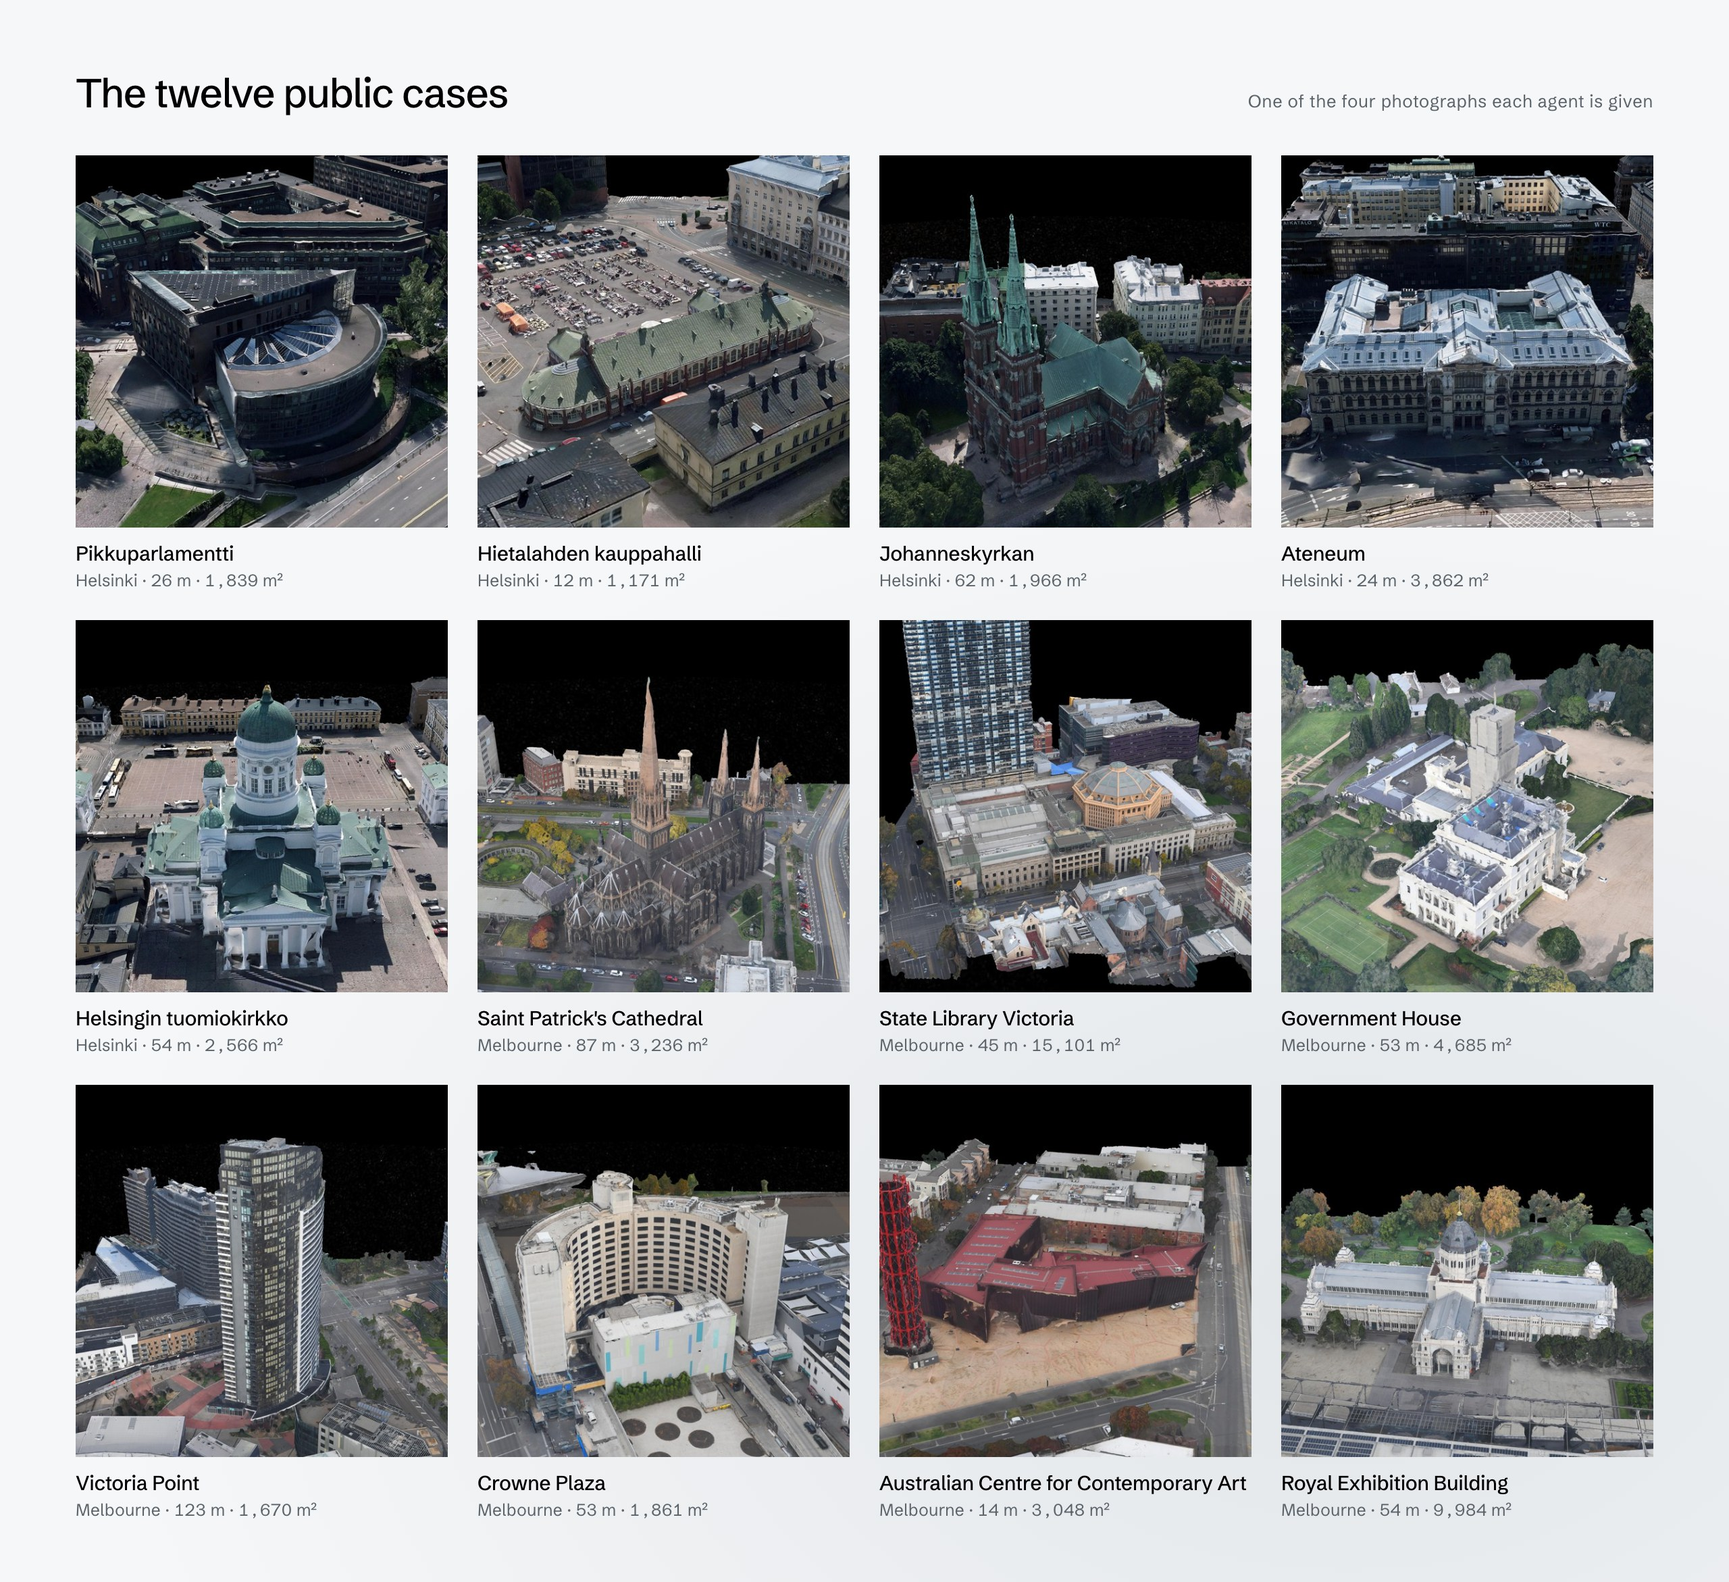
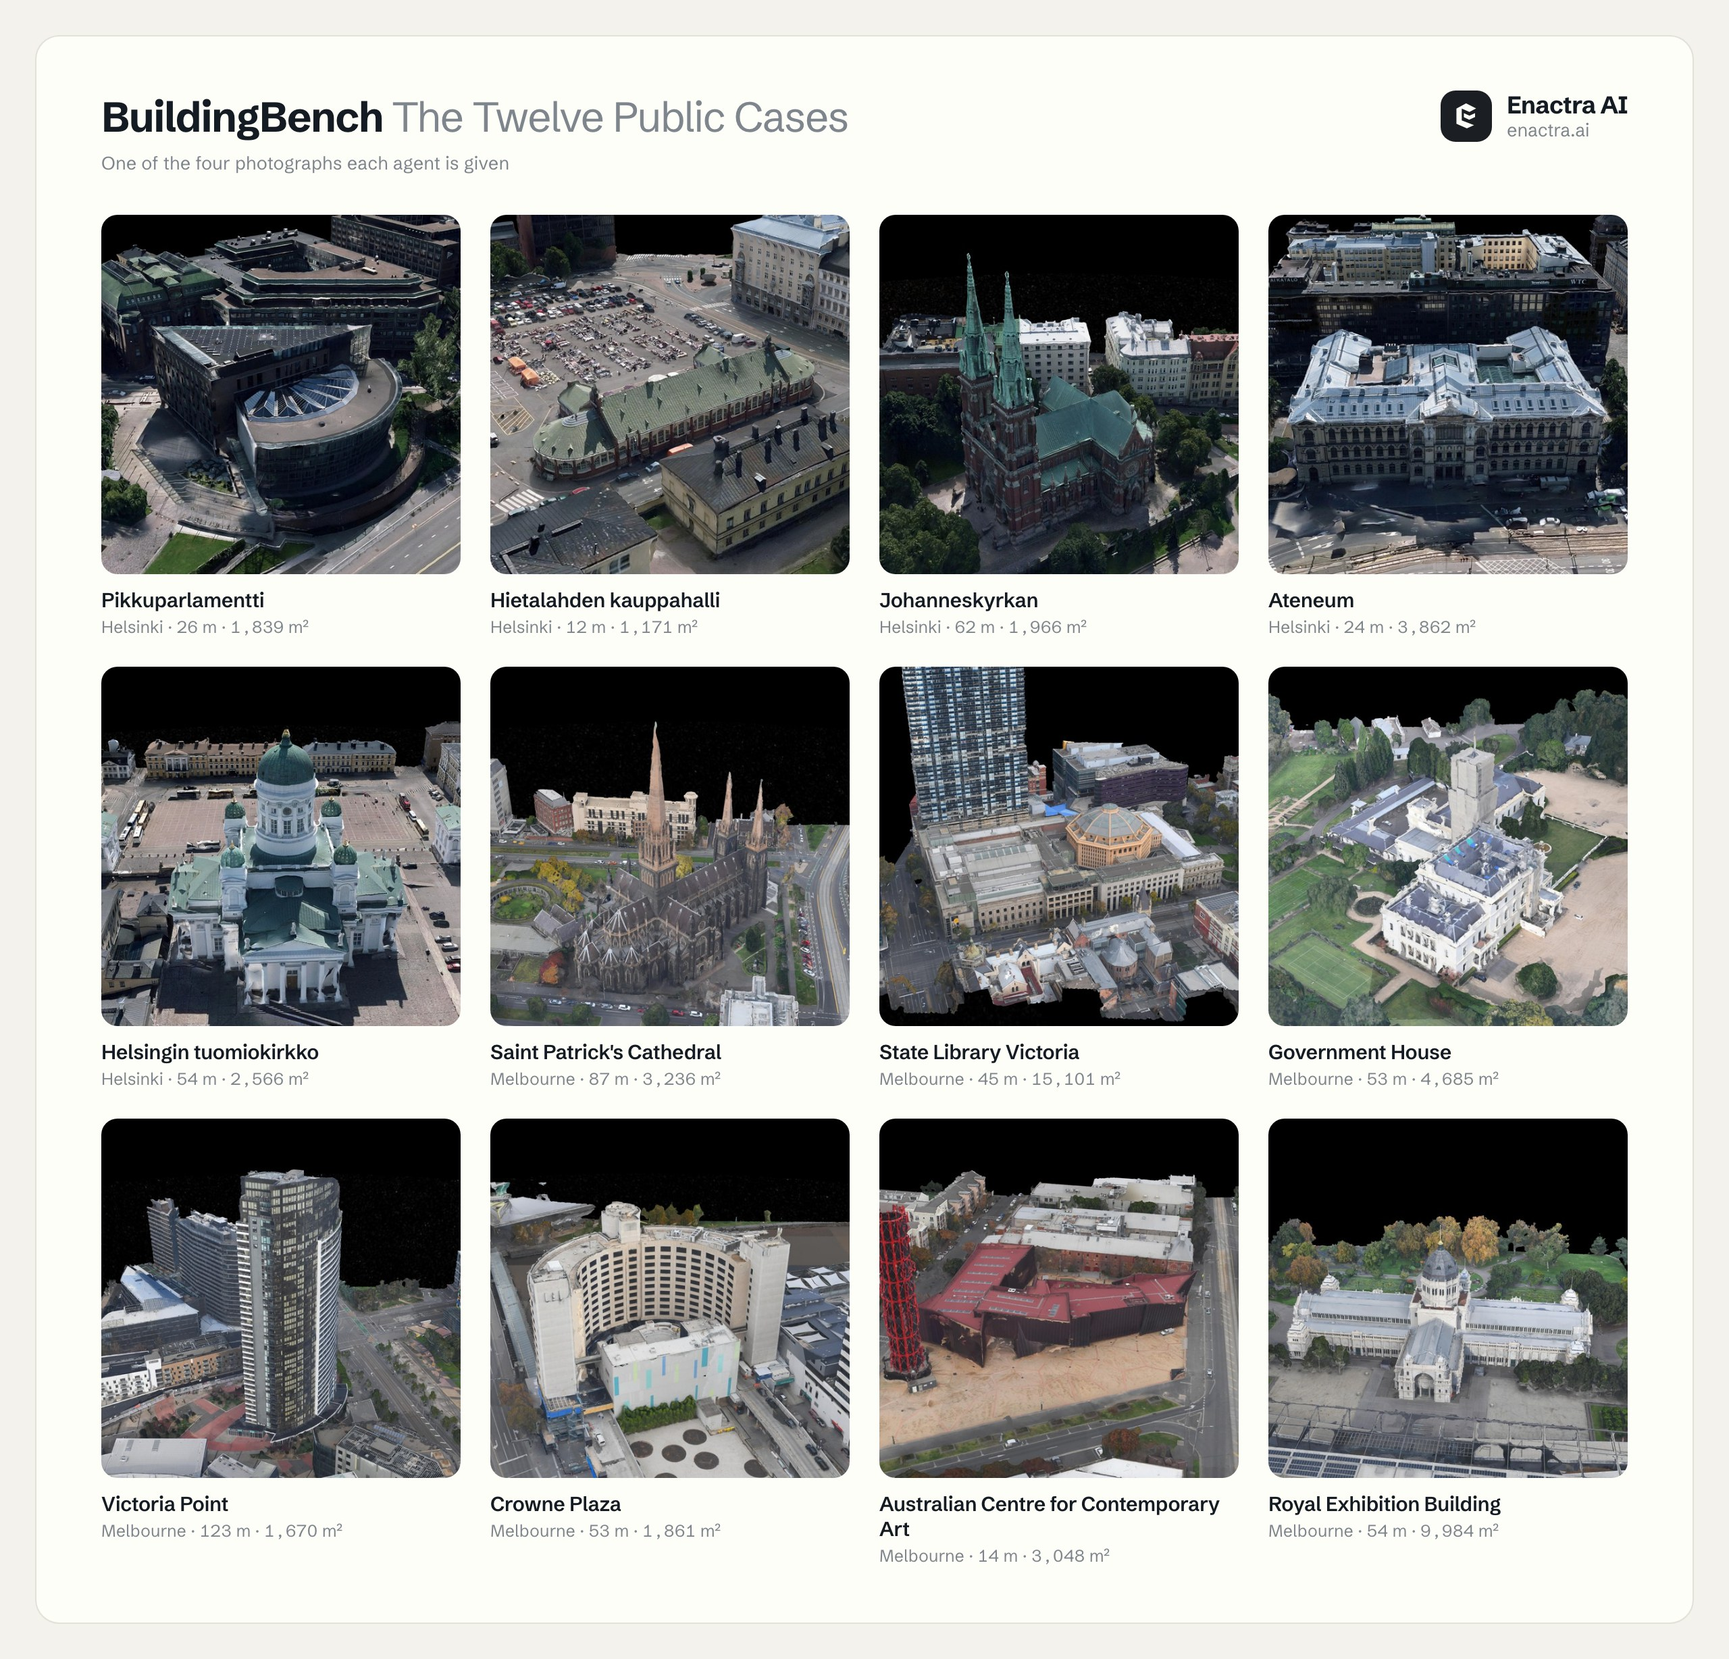
Show the frontier as the film draws it, and dress the figures to match
The price plot in the README is now the Pareto animation: the dots arrive
in order of when each model was released, so the reader watches the frontier
be pushed rather than reading it off a still. GitHub does not play an .mp4
that a README points at -- it renders it as a link -- so the film is filed as
a GIF, 1000px at 12 frames a second, with the finished chart held for three
seconds before it loops.

The three drawn figures follow the film's house style: a cream page, one
rounded card, the Enactra AI lock-up in the corner, and the heading split
between the name in ink and what the figure shows in grey. Each model family
carries its maker's colour in the plot, in its name on the board, and in its
score bar. docs/figures.py still draws the still price plot from the same
board, so nothing here is hand-made.

diff --git a/docs/figures.py b/docs/figures.py
@@ -37,15 +37,31 @@ CHROME = ("/Applications/Google Chrome.app/Contents/MacOS/Google Chrome",
           "/usr/bin/google-chrome", "/usr/bin/chromium",
           "/usr/bin/chromium-browser")
 
-# The house style, lifted from enactra.ai.
+# The house style, lifted from enactra.ai -- the same one the Pareto film uses.
 THEMES = {
-    "light": dict(paper="#f6f7f8", wash="#e2e6e9", ink="#000000",
-                  ink2="#5b636b", line="#c9cfd4", signal="#f2c230",
-                  track="#dfe3e7"),
-    "dark": dict(paper="#17191c", wash="#0d0f11", ink="#ffffff",
-                 ink2="#9aa2aa", line="#363c42", signal="#f2c230",
-                 track="#282d32"),
+    "light": dict(paper="#f4f2ec", card="#fefef9", ink="#141b22", ink2="#7e858c",
+                  line="#e3e0d6", rule="#eceade", signal="#f2c230",
+                  track="#eceade", chip="#1b1f23", chipink="#fefef9"),
+    "dark": dict(paper="#131518", card="#1b1e22", ink="#f4f2ec", ink2="#8f979f",
+                 line="#2b3035", rule="#23272c", signal="#f2c230",
+                 track="#272c31", chip="#f4f2ec", chipink="#131518"),
 }
+# One colour per model family, as in the film: the dot, the bar and the name
+# of a row all carry its maker's colour.
+MAKERS = (("Inkling", "#0f7a74"), ("Claude", "#c15f3c"), ("GPT", "#0d8a63"),
+          ("DeepSeek", "#4451de"),
+          ("Grok", "#9c1111"), ("Gemini", "#7818a0"), ("Kimi", "#8a6a00"),
+          ("GLM", "#b07d10"), ("Muse", "#2f86d6"))
+
+
+def maker(label: str) -> str:
+    """The colour of whoever makes this model."""
+    for name, colour in MAKERS:
+        if name.lower() in label.lower():
+            return colour
+    return "var(--ink)"
+
+
 MARK = ('<svg viewBox="55 40 280 320" class="mark">'
         '<path fill="currentColor" d="M193 55 L84 115 L84 286 L202 337 L283 301'
         ' L144 248 L144 115 L231 152 L306 113 Z"/>'
@@ -87,18 +103,37 @@ def shoot(html: str, name: str, width: int, theme: str, jpeg: bool = False,
     page = f"""<!doctype html><meta charset="utf-8"><style>
 @font-face {{ font-family: SG; font-weight: 100 900; font-style: normal;
   src: url(data:font/woff2;base64,{font()}) format('woff2'); }}
-:root {{ --paper:{colours['paper']}; --wash:{colours['wash']}; --ink:{colours['ink']};
-  --ink-2:{colours['ink2']}; --line:{colours['line']}; --signal:{colours['signal']};
-  --track:{colours['track']}; }}
+:root {{ --paper:{colours['paper']}; --card:{colours['card']}; --ink:{colours['ink']};
+  --ink-2:{colours['ink2']}; --line:{colours['line']}; --rule:{colours['rule']};
+  --signal:{colours['signal']}; --track:{colours['track']};
+  --chip:{colours['chip']}; --chip-ink:{colours['chipink']}; }}
 * {{ box-sizing: border-box; }}
 html, body {{ margin: 0; background: transparent; }}
 body {{ font-family: SG, "Helvetica Neue", Arial, sans-serif; color: var(--ink);
   -webkit-font-smoothing: antialiased; }}
 .num {{ font-variant-numeric: tabular-nums; }}
-.panel {{ width: {width}px; background: var(--paper);
-  background-image: radial-gradient(120% 90% at 78% 82%, var(--wash) 0%, var(--paper) 62%); }}
+.panel {{ width: {width}px; padding: 26px; background: var(--paper); }}
+.card {{ background: var(--card); border: 1px solid var(--line); border-radius: 18px;
+  overflow: hidden; }}
 .mark {{ display: block; }}
-</style><div class="panel">{html}</div>"""
+/* the brand lock-up that sits in the corner of every figure */
+.lockup {{ display: flex; align-items: center; gap: 11px; }}
+.lockup .chip {{ width: 38px; height: 38px; border-radius: 11px; background: var(--chip);
+  color: var(--chip-ink); display: flex; align-items: center; justify-content: center; }}
+.lockup .chip .mark {{ width: 21px; height: 21px; }}
+.lockup b {{ display: block; font-size: 18px; font-weight: 700; letter-spacing: -0.02em;
+  line-height: 1.15; }}
+.lockup span {{ display: block; font-size: 13.5px; color: var(--ink-2);
+  letter-spacing: -0.005em; }}
+/* the two-tone heading: the name in ink, what the figure shows beside it */
+.cap {{ display: flex; align-items: flex-start; justify-content: space-between; gap: 24px; }}
+.cap h2 {{ margin: 0; font-size: 31px; font-weight: 400; color: var(--ink-2);
+  letter-spacing: -0.028em; }}
+.cap h2 b {{ font-weight: 700; color: var(--ink); }}
+.cap h2 small {{ display: block; margin-top: 7px; font-size: 13.5px; font-weight: 400;
+  color: var(--ink-2); letter-spacing: 0.005em; }}
+.note {{ margin: 26px 0 0; font-size: 13px; line-height: 1.6; color: var(--ink-2); }}
+</style><div class="panel"><div class="card">{html}</div></div>"""
 
     with tempfile.TemporaryDirectory() as tmp:
         work = Path(tmp)
@@ -135,54 +170,60 @@ body {{ font-family: SG, "Helvetica Neue", Arial, sans-serif; color: var(--ink);
 
 # ------------------------------------------------------------------ figures
 
+LOCKUP = (f'<div class="lockup"><div class="chip">{MARK}</div>'
+          f'<div><b>Enactra AI</b><span>enactra.ai</span></div></div>')
+
+
 HEADER_CSS = """
-.head { padding: 78px 64px 84px; text-align: center; }
-.brand { display: inline-flex; align-items: center; gap: 10px;
-  font-weight: 600; font-size: 17px; letter-spacing: -0.01em; }
-.brand .mark { width: 24px; height: 24px; }
-.head h1 { margin: 30px 0 0; font-size: 86px; font-weight: 500;
-  line-height: 1.0; letter-spacing: -0.032em; }
-.head p { margin: 24px auto 0; max-width: 820px; font-size: 22px;
-  line-height: 1.4; color: var(--ink-2); letter-spacing: -0.014em; }
+.head { padding: 46px 52px 52px; }
+.head h1 { margin: 40px 0 0; font-size: 82px; font-weight: 400; color: var(--ink-2);
+  line-height: 1.02; letter-spacing: -0.034em; }
+.head h1 b { font-weight: 700; color: var(--ink); }
+.head p { margin: 22px 0 0; max-width: 780px; font-size: 21px; line-height: 1.42;
+  color: var(--ink-2); letter-spacing: -0.014em; }
+.head .tags { margin-top: 30px; display: flex; gap: 10px; flex-wrap: wrap; }
+.head .tag { font-size: 13.5px; font-weight: 500; letter-spacing: -0.008em;
+  padding: 7px 13px; border: 1px solid var(--line); border-radius: 999px;
+  background: var(--paper); }
 """
 
 
 def header(theme: str) -> None:
+    tags = ("12 public buildings", "16 models", "201 reference runs",
+            "CC BY 4.0 data")
+    chips = "".join(f'<span class="tag">{t}</span>' for t in tags)
     body = f"""<style>{HEADER_CSS}</style><div class="head">
-  <div class="brand">{MARK}<span>Enactra AI</span></div>
-  <h1>Building&nbsp;Bench</h1>
-  <p>Reconstruct real buildings as 3D models from aerial imagery,
+  <div class="cap"><div></div>{LOCKUP}</div>
+  <h1><b>BuildingBench</b><br>One building,<br>four photographs.</h1>
+  <p>Reconstruct real buildings as textured 3D models from aerial imagery,
      using coding agents.</p>
+  <div class="tags">{chips}</div>
 </div>"""
     shoot(body, "header", 1280, theme)
 
 
 BOARD_CSS = """
-.board { padding: 52px 56px 46px; }
-.cap { display: flex; align-items: baseline; justify-content: space-between; gap: 24px; }
-.cap h2 { margin: 0; font-size: 30px; font-weight: 500; letter-spacing: -0.028em; }
-.cap span { font-size: 13px; color: var(--ink-2); letter-spacing: 0.02em; }
+.board { padding: 40px 48px 42px; }
 table { width: 100%; border-collapse: collapse; margin-top: 30px; }
-th { font-size: 10.5px; font-weight: 500; color: var(--ink-2); text-align: right;
+th { font-size: 10.5px; font-weight: 600; color: var(--ink-2); text-align: right;
   letter-spacing: 0.08em; text-transform: uppercase; padding: 0 0 11px 30px;
   border-bottom: 1px solid var(--line); white-space: nowrap; }
 th.l, td.l { text-align: left; }
 td { font-size: 16px; padding: 11px 0 11px 30px; text-align: right; white-space: nowrap;
-  border-bottom: 1px solid color-mix(in srgb, var(--line) 48%, transparent); }
+  border-bottom: 1px solid var(--rule); }
 tr:last-child td { border-bottom: 0; }
 td.rank, th.rank { padding-left: 0; color: var(--ink-2); font-size: 13px; }
 td.name, th.name { width: 100%; padding-left: 16px; }
-td.name { font-weight: 500; letter-spacing: -0.012em; }
+td.name { font-weight: 600; letter-spacing: -0.012em; }
 td.sub, th.sub { color: var(--ink-2); }
 td.sub { font-size: 15px; }
 th.se, td.se { padding-left: 12px; }
 .bar { display: flex; align-items: center; gap: 12px; justify-content: flex-end; }
-.track { width: 152px; height: 7px; background: var(--track); position: relative; }
-.fill { position: absolute; inset: 0 auto 0 0; background: var(--ink); }
-.lead .fill { background: var(--signal); }
-.score { width: 50px; font-weight: 500; letter-spacing: -0.015em; text-align: right; }
+.track { width: 152px; height: 8px; border-radius: 999px; background: var(--track);
+  position: relative; overflow: hidden; }
+.fill { position: absolute; inset: 0 auto 0 0; border-radius: 999px; }
+.score { width: 50px; font-weight: 600; letter-spacing: -0.015em; text-align: right; }
 td.se { font-size: 13px; color: var(--ink-2); }
-.note { margin-top: 26px; font-size: 13px; line-height: 1.6; color: var(--ink-2); }
 """
 
 
@@ -198,13 +239,15 @@ def leaderboard(theme: str) -> None:
     rows = []
     for line in lines:
         lead = " lead" if line["place"] == 1 else ""
+        tone = maker(line["label"])
         bar = (f'<div class="bar"><div class="track"><div class="fill" '
-               f'style="width:{line["overall"] * 100:.1f}%"></div></div>'
+               f'style="width:{line["overall"] * 100:.1f}%;background:{tone}">'
+               f'</div></div>'
                f'<div class="score num">{line["overall"]:.3f}</div></div>')
         rows.append(
             f'<tr class="{lead.strip()}">'
             f'<td class="rank num">{line["place"]}</td>'
-            f'<td class="l name">{line["label"]}</td>'
+            f'<td class="l name" style="color:{tone}">{line["label"]}</td>'
             f'<td class="wide">{bar}</td>'
             f'<td class="se num">± {board._f(line["se"])[1:]}</td>'
             f'<td class="sub num">{board._f(line["surface_f"])}</td>'
@@ -214,8 +257,9 @@ def leaderboard(theme: str) -> None:
             f'<td class="sub num">{board._f(line["minutes"], 0)}</td></tr>')
 
     body = f"""<style>{BOARD_CSS}</style><div class="board">
-  <div class="cap"><h2>Reference leaderboard</h2>
-    <span>Twelve public buildings &middot; blind tier &middot; one run per model per building</span></div>
+  <div class="cap"><h2><b>BuildingBench</b> Reference Leaderboard
+      <small>Twelve public buildings &middot; blind tier &middot; one run per model per building</small>
+    </h2>{LOCKUP}</div>
   <table><thead><tr>{columns}</tr></thead><tbody>{''.join(rows)}</tbody></table>
   <p class="note">Overall is on 0&ndash;1, averaged over the twelve buildings; &plusmn; is the
     standard error across them. $ / run and min / run are medians.</p>
@@ -224,13 +268,11 @@ def leaderboard(theme: str) -> None:
 
 
 CASES_CSS = """
-.cases { padding: 50px 56px 46px; }
-.cap { display: flex; align-items: baseline; justify-content: space-between; gap: 24px; }
-.cap h2 { margin: 0; font-size: 30px; font-weight: 500; letter-spacing: -0.028em; }
-.cap span { font-size: 13px; color: var(--ink-2); letter-spacing: 0.02em; }
-.grid { margin-top: 28px; display: grid; grid-template-columns: repeat(4, 1fr); gap: 22px; }
-.tile img { display: block; width: 100%; aspect-ratio: 1; object-fit: cover; }
-.tile b { display: block; margin-top: 10px; font-size: 15px; font-weight: 500;
+.cases { padding: 40px 48px 42px; }
+.grid { margin-top: 30px; display: grid; grid-template-columns: repeat(4, 1fr); gap: 22px; }
+.tile img { display: block; width: 100%; aspect-ratio: 1; object-fit: cover;
+  border-radius: 12px; }
+.tile b { display: block; margin-top: 10px; font-size: 15px; font-weight: 600;
   letter-spacing: -0.012em; }
 .tile span { display: block; margin-top: 3px; font-size: 12.5px; color: var(--ink-2); }
 """
@@ -270,8 +312,8 @@ def gallery(theme: str) -> None:
                 f'<span class="num">{case["city"]} &middot; {case["height_m"]:.0f} m '
                 f'&middot; {case["footprint_area_m2"]:,.0f} m²</span></div>')
         body = f"""<style>{CASES_CSS}</style><div class="cases">
-  <div class="cap"><h2>The twelve public cases</h2>
-    <span>One of the four photographs each agent is given</span></div>
+  <div class="cap"><h2><b>BuildingBench</b> The Twelve Public Cases
+      <small>One of the four photographs each agent is given</small></h2>{LOCKUP}</div>
   <div class="grid">{''.join(tiles)}</div>
 </div>"""
         shoot(body, "cases", 1280, theme, jpeg=True, assets=pics)
@@ -279,10 +321,7 @@ def gallery(theme: str) -> None:
 
 
 PRICE_CSS = """
-.price { padding: 50px 56px 40px; }
-.cap { display: flex; align-items: baseline; justify-content: space-between; gap: 24px; }
-.cap h2 { margin: 0; font-size: 30px; font-weight: 500; letter-spacing: -0.028em; }
-.cap span { font-size: 13px; color: var(--ink-2); letter-spacing: 0.02em; }
+.price { padding: 40px 48px 38px; }
 .chart { margin-top: 26px; display: block; width: 100%; }
 .chart text { font-family: SG, sans-serif; }
 .chart .grid { stroke: var(--line); stroke-width: 1; }
@@ -293,13 +332,13 @@ PRICE_CSS = """
 .chart .err { stroke: var(--ink-2); stroke-width: 1.2; opacity: 0.55; }
 .chart .front { fill: none; stroke: var(--ink); stroke-width: 1.6;
   stroke-linejoin: round; opacity: 0.5; }
-.chart .halo { fill: none; stroke: var(--paper); stroke-width: 6; stroke-linejoin: round; }
-.chart .dot { fill: var(--ink); stroke: var(--paper); stroke-width: 2.5; }
-.chart .dot.on { fill: var(--signal); stroke: var(--ink); stroke-width: 1.6; }
-.chart .name { font-size: 12.5px; fill: var(--ink-2); letter-spacing: -0.008em;
-  paint-order: stroke fill; stroke: var(--paper); stroke-width: 3.5px;
+.chart .halo { fill: none; stroke: var(--card); stroke-width: 6; stroke-linejoin: round; }
+.chart .dot { stroke: var(--card); stroke-width: 2.5; }
+.chart .dot.on { stroke: var(--ink); stroke-width: 1.6; }
+.chart .name { font-size: 12.5px; letter-spacing: -0.008em;
+  paint-order: stroke fill; stroke: var(--card); stroke-width: 3.5px;
   stroke-linejoin: round; }
-.chart .name.on { fill: var(--ink); font-weight: 500; }
+.chart .name.on { font-size: 13.5px; font-weight: 700; }
 .note { margin-top: 22px; font-size: 13px; line-height: 1.6; color: var(--ink-2); }
 """
 
@@ -414,17 +453,20 @@ def price(theme: str) -> None:
     for point in points:
         on = " on" if id(point) in best else ""
         art.append(f'<circle class="dot{on}" cx="{point["x"]:.1f}" '
-                   f'cy="{point["y"]:.1f}" r="5.5"/>')
+                   f'cy="{point["y"]:.1f}" r="{6.5 if on else 5.0}" '
+                   f'fill="{maker(point["text"])}"/>')
 
     place(points, (left + 4, y0, W - right - 4, y1))
     for point in points:
         on = " on" if id(point) in best else ""
         art.append(f'<text class="name{on}" x="{point["lx"]:.1f}" y="{point["ly"]:.1f}" '
-                   f'text-anchor="{point["anchor"]}">{point["text"]}</text>')
+                   f'text-anchor="{point["anchor"]}" fill="{maker(point["text"])}" '
+                   f'opacity="{1 if on else 0.78}">{point["text"]}</text>')
 
     body = f"""<style>{PRICE_CSS}</style><div class="price">
-  <div class="cap"><h2>Score against price</h2>
-    <span>Twelve public buildings &middot; blind tier &middot; one run per model per building</span></div>
+  <div class="cap"><h2><b>BuildingBench</b> Pareto Frontier
+      <small>Twelve public buildings &middot; blind tier &middot; one run per model per building</small>
+    </h2>{LOCKUP}</div>
   <svg class="chart" viewBox="0 0 {W:.0f} {H:.0f}" role="img"
        aria-label="overall score against the cost of one run, on a logarithmic price axis">
     {''.join(art)}

diff --git a/README.md b/README.md
@@ -45,10 +45,7 @@ Sixteen models, one run per model per building, on the twelve public cases at
 the **blind** tier — the agent is told neither the footprint nor the height.
 
 <p align="center">
-  <picture>
-    <source media="(prefers-color-scheme: dark)" srcset="docs/assets/price-dark.png">
-    <img alt="Overall score against the median cost of one run, on a logarithmic price axis. The frontier runs from a free model up through GLM 5.3 Flash, GPT-5.6 Luna and DeepSeek V4.1 Flash to GPT-6 Astra." src="docs/assets/price-light.png">
-  </picture>
+  <img alt="Overall score against the median cost of one run, on a logarithmic price axis. The frontier runs from a free model up through GLM 5.3 Flash, GPT-5.6 Luna and DeepSeek V4.1 Flash to GPT-6 Astra." src="docs/assets/pareto.gif" width="900">
 </p>
 
 Price buys very little of this benchmark. The three dearest rows — Claude
